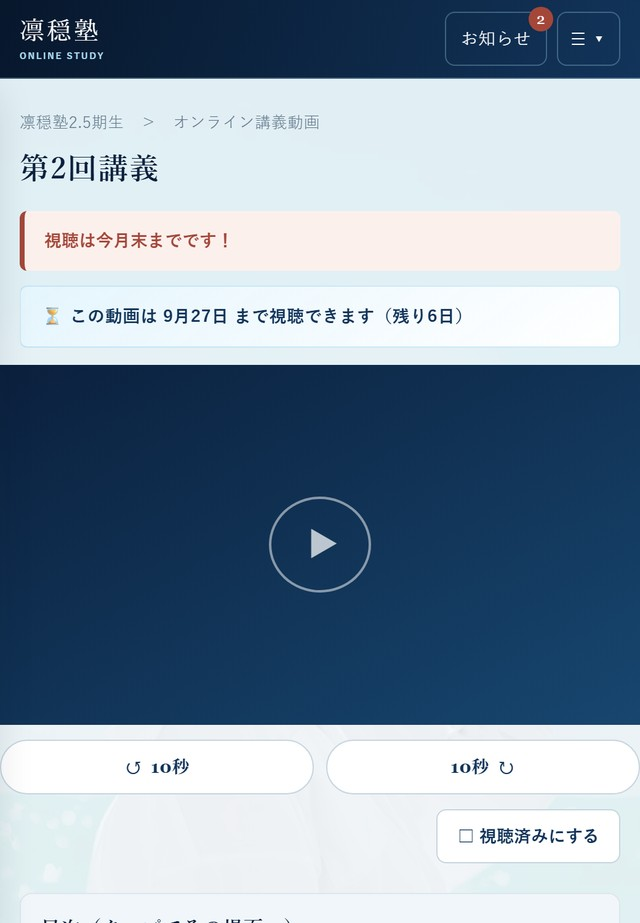
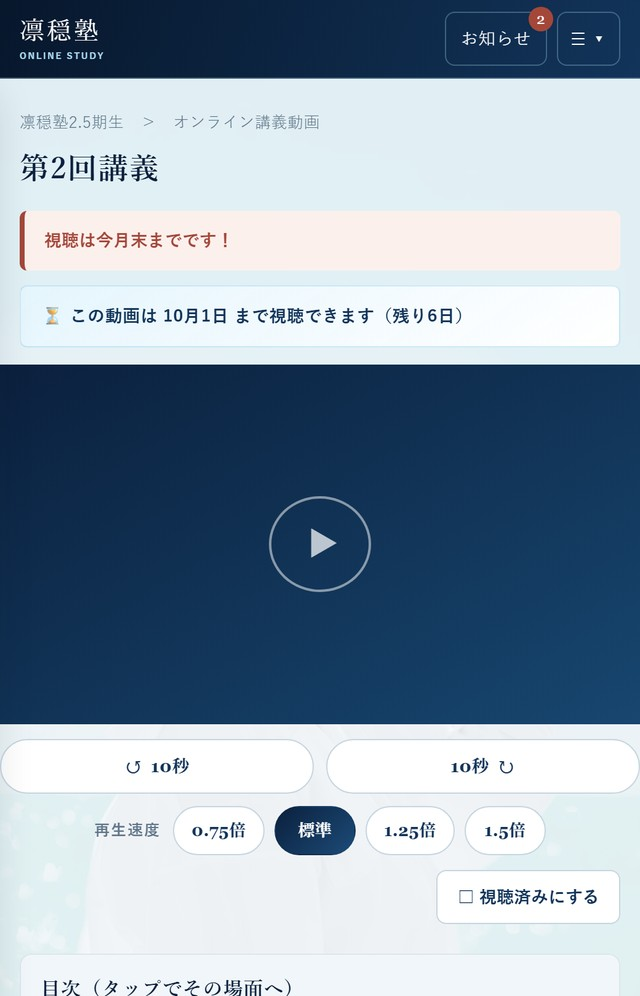
再生速度（0.75／標準／1.25／1.5倍）とスマホ横画面への対応
■ 再生速度
動画の下に4段階の切り替えを追加した。選んだ速度はその端末が覚えて、
次に開く動画にも引き継ぐ。Vimeoが速度変更を断る端末では、黙って失敗させず
「この端末では速度を変えられません」と出し、表示を実際の速度へ戻す。

■ スマホ横画面（高さ500px以下の横向き）
これまでヘッダーとタイトルで1画面を使い切り、動画が画面の外に出ていた。
・ヘッダーを46pxに薄くする（.side / .backdrop の 58px 前提も合わせて調整）
・パンくずを隠し、タイトルと帯を詰める
・動画を order で先頭に出し、16:9を保ったまま画面の高さに収まる幅にする
・左下の「目次」タブに文字が隠れるので、左の余白を58pxあける

■ マニュアル
再生速度の説明を start.html と guide.html に追加。画面写真も撮り直した。
あわせて、ガイドの「視聴済みの記録はお手元の端末に残ります」を修正した。
v1.8.0 でサーバー保存に変えており、実際は機種を変えても引き継がれるため。

キャッシュ番号 ?v=41 → 42。

diff --git a/guide.html b/guide.html
@@ -384,7 +384,7 @@ td code { background: transparent; padding: 0; }
   <div class="a-muted" style="font-size:9px">動画を観ているとき、左下に出ています</div>
   <div class="a-vid" style="margin-top:8px">&#9654;</div>
   <div class="a-drawer">目次</div>
-</div></div></div><p class="shot__cap">スマホでは左下の「目次」から</p></div><h3>期限のしるし</h3><div class="tablewrap"><table><thead><tr><th>しるし</th><th>意味</th></tr></thead><tbody><tr><td><span style="background:#6b3a1e;color:#ffd7a8;border-radius:4px;padding:1px 6px;font-size:12px">あと5日</span></td><td>視聴期限が近づいています。お早めにご覧ください</td></tr><tr><td><span style="background:#23405c;color:#a8cbe6;border-radius:4px;padding:1px 6px;font-size:12px">9/1〜</span></td><td>まだ公開前です。その日になると観られるようになります</td></tr><tr><td>しるしなし</td><td>期限はありません。いつでもご覧いただけます</td></tr></tbody></table></div></section><section class="sec" id="s4"><div class="sec__head"><span class="sec__no">04</span><h2 class="sec__title">動画の観かた</h2></div><p class="sec__lead">長い講義でも、観たい場面からすぐに再生できます。</p><h3>目次から場面へ飛ぶ</h3><p>動画の下に <b>0:13:44</b> のような時刻が並んでいる回があります。これをタップすると、<b>その場面から再生</b>されます。</p><h3>少しだけ戻したいとき</h3><p>動画のすぐ下に <b>「↺ 10秒」「10秒 ↻」</b> のボタンがあります。聞き逃したところを<b>10秒だけ戻す</b>、先に進めたいときは<b>10秒進む</b>、という使い方ができます。何度でも押せます。</p><h3>観終わったら</h3><p>動画の下の <b>「□ 視聴済みにする」</b> を押しておくと、一覧に ✓ が付きます。どこまで観たかが分かりやすくなります（この記録はお手元の端末に残ります）。</p><h3>資料や音声がある回</h3><p>動画の下に、<b>補足の文章・画像の資料・音声</b>が付いている回があります。画像はタップで大きく表示、音声はその場で再生できます。</p><div class="note note--amber"><b>動画が再生されないとき</b>Wi-Fiのつながる場所でお試しください。電波が弱いと、読み込みに時間がかかることがあります。</div></section><section class="sec" id="s5"><div class="sec__head"><span class="sec__no">05</span><h2 class="sec__title">お知らせと通知</h2></div><p class="sec__lead">新しい動画やお知らせを、運営からご連絡します。</p><div class="shot shot--row"><div class="shot"><div class="phone"><div class="phone__scr"><div class="phone__notch"></div><div class="a-hd"><div class="a-brand">凛穏塾<small>ONLINE STUDY</small></div><div class="a-sp"></div><div class="a-chip">お知らせ</div><div class="a-chip">山田 花子 さん ▾</div></div>
+</div></div></div><p class="shot__cap">スマホでは左下の「目次」から</p></div><h3>期限のしるし</h3><div class="tablewrap"><table><thead><tr><th>しるし</th><th>意味</th></tr></thead><tbody><tr><td><span style="background:#6b3a1e;color:#ffd7a8;border-radius:4px;padding:1px 6px;font-size:12px">あと5日</span></td><td>視聴期限が近づいています。お早めにご覧ください</td></tr><tr><td><span style="background:#23405c;color:#a8cbe6;border-radius:4px;padding:1px 6px;font-size:12px">9/1〜</span></td><td>まだ公開前です。その日になると観られるようになります</td></tr><tr><td>しるしなし</td><td>期限はありません。いつでもご覧いただけます</td></tr></tbody></table></div></section><section class="sec" id="s4"><div class="sec__head"><span class="sec__no">04</span><h2 class="sec__title">動画の観かた</h2></div><p class="sec__lead">長い講義でも、観たい場面からすぐに再生できます。</p><h3>目次から場面へ飛ぶ</h3><p>動画の下に <b>0:13:44</b> のような時刻が並んでいる回があります。これをタップすると、<b>その場面から再生</b>されます。</p><h3>少しだけ戻したいとき</h3><p>動画のすぐ下に <b>「↺ 10秒」「10秒 ↻」</b> のボタンがあります。聞き逃したところを<b>10秒だけ戻す</b>、先に進めたいときは<b>10秒進む</b>、という使い方ができます。何度でも押せます。</p><h3>速さを変えたいとき</h3><p>動画の下に <b>「再生速度」</b> が並んでいます。<b>1.25倍・1.5倍</b>で復習を早く済ませたり、聞き取りにくいときは<b>0.75倍</b>でゆっくり再生できます。一度選ぶと、次に開く動画にもそのまま引き継がれます。</p><h3>観終わったら</h3><p>動画の下の <b>「□ 視聴済みにする」</b> を押しておくと、一覧に ✓ が付きます。<b>9割ほどご覧いただくと自動で ✓ が付きます。</b>この記録は凛穏塾側に残りますので、機種を変えても、パソコンで観ても引き継がれます。</p><h3>資料や音声がある回</h3><p>動画の下に、<b>補足の文章・画像の資料・音声</b>が付いている回があります。画像はタップで大きく表示、音声はその場で再生できます。</p><div class="note note--amber"><b>動画が再生されないとき</b>Wi-Fiのつながる場所でお試しください。電波が弱いと、読み込みに時間がかかることがあります。</div></section><section class="sec" id="s5"><div class="sec__head"><span class="sec__no">05</span><h2 class="sec__title">お知らせと通知</h2></div><p class="sec__lead">新しい動画やお知らせを、運営からご連絡します。</p><div class="shot shot--row"><div class="shot"><div class="phone"><div class="phone__scr"><div class="phone__notch"></div><div class="a-hd"><div class="a-brand">凛穏塾<small>ONLINE STUDY</small></div><div class="a-sp"></div><div class="a-chip">お知らせ</div><div class="a-chip">山田 花子 さん ▾</div></div>
 <div class="a-body">
   <div class="a-h1">お知らせ</div>
   <div class="a-card">

diff --git a/css/style.css b/css/style.css
@@ -1346,6 +1346,31 @@ html.student-page.shooting body.has-demo-bar { --student-demo-offset: 0px; }
 .seek-tools button:active { transform: translateY(1px); }
 .seek-tools button[disabled] { opacity: .45; cursor: default; }
 .seek-ic { font-size: 18px; line-height: 1; font-family: var(--sans); }
+
+/* ===== 再生速度 ===== */
+.rate-tools {
+  display: flex; flex-wrap: wrap; justify-content: center; align-items: center;
+  gap: 8px; margin: 10px 0 0;
+}
+.rate-label {
+  font-size: 12.5px; font-weight: 700; color: var(--text-mid);
+  letter-spacing: .08em; margin-right: 2px;
+}
+.rate-tools .rate {
+  min-height: 40px; min-width: 66px; cursor: pointer;
+  background: #fff; border: 1px solid var(--student-border, rgba(18, 52, 90, .16));
+  border-radius: 999px; padding: 8px 14px;
+  font-family: var(--num); font-size: 13.5px; font-weight: 700; letter-spacing: .02em;
+  color: var(--navy-800);
+}
+.rate-tools .rate:hover { border-color: var(--sky-500); }
+.rate-tools .rate:active { transform: translateY(1px); }
+.rate-tools .rate.on {
+  background: linear-gradient(135deg, var(--navy-900), var(--navy-700));
+  border-color: transparent; color: #fff;
+}
+.rate-tools .rate[disabled] { opacity: .45; cursor: default; }
+.rate-msg { flex: 1 0 100%; text-align: center; font-size: 12px; color: var(--text-mid); }
 /* 押したとき、数字がふわっと動いて「効いた」と分かるように */
 .seek-tools button.hit { background: var(--sky-100); border-color: var(--sky-400); }
 @media (max-width: 560px) {
@@ -1353,3 +1378,39 @@ html.student-page.shooting body.has-demo-bar { --student-demo-offset: 0px; }
   .seek-tools button { flex: 1; min-width: 0; }
 }
 @media (prefers-reduced-motion: reduce) { .seek-tools button:active { transform: none; } }
+
+/* ===== スマホの横画面 =====
+   高さが足りず、動画がヘッダーとタイトルに押し出されて画面の外に出てしまう。
+   ・上まわりを詰める
+   ・動画を先頭に並べ替えて（order）、開いた瞬間に見えるようにする
+   ・画面の高さに収まるよう、動画の横幅のほうを縮める（16:9を保つ）
+   高さ500px以下の横向き＝スマホ横画面。タブレットやPCには当たらない。 */
+@media (orientation: landscape) and (max-height: 500px) {
+  /* ヘッダーを薄くする。.side / .backdrop は 58px を前提に置いているので、そこも合わせる */
+  .student-page .hd, .hd { min-height: 46px; padding: 6px 14px; }
+  .student-page .hd .brand, .hd .brand { font-size: 17px; letter-spacing: .1em; }
+  .student-page .hd .brand small, .hd .brand small { font-size: 6.5px; margin-top: 2px; }
+  .student-page .hd button, .hd button { min-height: 34px; padding: 6px 12px; font-size: 12.5px; }
+  .side { top: 46px; }
+  .backdrop { inset: 46px 0 0; }
+  .main { min-height: calc(100dvh - 46px); }
+
+  /* 左下の「目次」タブに文字が隠れるので、左だけ広くあける */
+  .student-page .watch, .watch { padding: 10px 16px 40px 58px; display: flex; flex-direction: column; }
+  .student-page .body, .body { padding-left: 58px; }
+  .crumb { display: none; }
+  .student-page .watch h1, .watch h1 { font-size: 17px; margin: 0 0 8px; }
+  .hint-bar, .limit-bar { padding: 7px 12px; font-size: 12px; margin-bottom: 8px; }
+
+  /* 動画を先頭へ。画面の高さに収まるよう、16:9を保ったまま横幅のほうを縮める */
+  .frame { order: -1; width: 100%; max-width: calc((100dvh - 130px) * 16 / 9);
+    margin: 0 auto 10px; align-self: center; }
+
+  .seek-tools, .rate-tools { margin-top: 8px; }
+  .watch-tools { margin: 10px 0 12px; }
+
+  /* コース選択・一覧側も、見出しで1画面を使い切らないように詰める */
+  .student-page .body, .body { padding-top: 14px; }
+  .student-page .body h1, .body h1 { font-size: 19px; margin-bottom: 6px; }
+  .student-page .body .lead, .body .lead { margin-bottom: 12px; }
+}

diff --git a/js/app.js b/js/app.js
@@ -19,6 +19,7 @@
     watched: {}      // 観た動画のID（サーバーの「視聴状況」と同じ中身）
   };
   var WATCH_KEY = 'rj_watched', READ_KEY = 'rj_news_read', LIKE_KEY = 'rj_news_liked', ORDER_KEY = 'rj_order';
+  var RATE_KEY = 'rj_rate';        // 再生速度（この端末だけが覚える）
   var uid = RJ.pickUid();
 
   var $ = function (id) { return document.getElementById(id); };
@@ -1040,6 +1041,8 @@
       try { state.player = new Vimeo.Player(frame); } catch (e) { state.player = null; }
     }
     paintSeekTools(!!state.player);
+    paintRateTools(!!state.player);
+    applyRate();
     // ※Vimeo側が「埋め込み限定」設定のため、vimeo.comで開くリンクは置いていない
 
     // 目次・補足
@@ -1127,6 +1130,66 @@
 
   if ($('back10')) $('back10').addEventListener('click', function () { seekBy(-10); });
   if ($('fwd10')) $('fwd10').addEventListener('click', function () { seekBy(10); });
+
+  /* ---------- 再生速度 ----------
+   * ・0.75 / 1 / 1.25 / 1.5 の4段階。選んだ速度はこの端末が覚えて、次の動画にも引き継ぐ
+   * ・Vimeoは端末や動画の設定によって速度変更を断ることがある。
+   *   そのときは黙って失敗させず、「変えられません」と出して表示を実際の速度に戻す
+   */
+  var RATES = [0.75, 1, 1.25, 1.5];
+  function rate() {
+    var v;
+    try { v = Number(localStorage.getItem(RATE_KEY)); } catch (e) { v = 0; }
+    return RATES.indexOf(v) >= 0 ? v : 1;
+  }
+  function setRate(v) { try { localStorage.setItem(RATE_KEY, String(v)); } catch (e) {} }
+
+  function paintRateTools(canPlay) {
+    var box = $('rateTools');
+    if (!box) return;
+    box.classList.toggle('hidden', !canPlay);
+    var now = rate();
+    Array.prototype.forEach.call(box.querySelectorAll('.rate'), function (b) {
+      b.classList.toggle('on', Number(b.dataset.rate) === now);
+      b.disabled = !canPlay;
+    });
+    if (canPlay) rateMsg(false);
+  }
+  function rateMsg(show) {
+    var m = $('rateMsg'); if (m) m.classList.toggle('hidden', !show);
+  }
+
+  /** いまのプレーヤーに、覚えている速度をあてる（動画を開くたびに呼ぶ） */
+  function applyRate() {
+    var p = state.player;
+    if (!p || !p.setPlaybackRate) return;
+    var want = rate();
+    p.ready()
+      .then(function () { return p.setPlaybackRate(want); })
+      .then(function () { rateMsg(false); })
+      .catch(function () {
+        // 変えられない端末。表示を実際の速度に戻して、理由を出す
+        rateMsg(true);
+        if (p.getPlaybackRate) {
+          p.getPlaybackRate().then(function (r) {
+            var box = $('rateTools'); if (!box) return;
+            Array.prototype.forEach.call(box.querySelectorAll('.rate'), function (b) {
+              b.classList.toggle('on', Number(b.dataset.rate) === Number(r));
+            });
+          }).catch(function () {});
+        }
+      });
+  }
+
+  if ($('rateTools')) {
+    $('rateTools').addEventListener('click', function (e) {
+      var b = e.target.closest ? e.target.closest('.rate') : null;
+      if (!b || b.disabled) return;
+      setRate(Number(b.dataset.rate));
+      paintRateTools(true);
+      applyRate();
+    });
+  }
 
   /**
    * 9割まで再生されたら、自動で「視聴済み」にする。

diff --git a/index.html b/index.html
@@ -11,19 +11,19 @@
 <meta name="apple-mobile-web-app-status-bar-style" content="black-translucent">
 <meta name="apple-mobile-web-app-title" content="凛穏塾">
 <meta name="theme-color" content="#07172c">
-<link rel="apple-touch-icon" href="icon-192.png?v=41">
-<link rel="icon" type="image/png" sizes="32x32" href="favicon-32.png?v=41">
-<link rel="icon" type="image/png" sizes="64x64" href="favicon-64.png?v=41">
-<link rel="icon" href="icon-192.png?v=41">
+<link rel="apple-touch-icon" href="icon-192.png?v=42">
+<link rel="icon" type="image/png" sizes="32x32" href="favicon-32.png?v=42">
+<link rel="icon" type="image/png" sizes="64x64" href="favicon-64.png?v=42">
+<link rel="icon" href="icon-192.png?v=42">
 <title>凛穏塾｜受講生専用 動画ページ</title>
-<link rel="stylesheet" href="css/style.css?v=41">
+<link rel="stylesheet" href="css/style.css?v=42">
 </head>
 <body>
 
 <!-- ===== 起動画面（白い光にロゴが浮かぶ・1.5秒で消える） ===== -->
 <div id="splash" class="splash">
   <div class="splash__glow"></div>
-  <img class="splash__logo" src="assets/logo-app.png?v=41" alt="凛穏塾" width="480" height="480">
+  <img class="splash__logo" src="assets/logo-app.png?v=42" alt="凛穏塾" width="480" height="480">
 </div>
 <script>
 (function () {
@@ -130,6 +130,14 @@
           <button id="fwd10" type="button" aria-label="10秒すすむ">
             10秒<span class="seek-ic">↻</span></button>
         </div>
+        <div class="rate-tools hidden" id="rateTools">
+          <span class="rate-label">再生速度</span>
+          <button class="rate" data-rate="0.75" type="button">0.75倍</button>
+          <button class="rate" data-rate="1" type="button">標準</button>
+          <button class="rate" data-rate="1.25" type="button">1.25倍</button>
+          <button class="rate" data-rate="1.5" type="button">1.5倍</button>
+          <span class="rate-msg hidden" id="rateMsg">この端末では速度を変えられません</span>
+        </div>
         <div class="watch-tools">
           <button id="doneBtn" type="button">□ 視聴済みにする</button>
         </div>
@@ -172,9 +180,9 @@
 </div>
 
 <script src="https://player.vimeo.com/api/player.js"></script>
-<script src="js/config.js?v=41"></script>
-<script src="js/common.js?v=41"></script>
-<script src="js/mock.js?v=41"></script>
-<script src="js/app.js?v=41"></script>
+<script src="js/config.js?v=42"></script>
+<script src="js/common.js?v=42"></script>
+<script src="js/mock.js?v=42"></script>
+<script src="js/app.js?v=42"></script>
 </body>
 </html>

diff --git a/admin.html b/admin.html
@@ -5,11 +5,11 @@
 <meta name="viewport" content="width=device-width, initial-scale=1">
 <meta name="robots" content="noindex, nofollow">
 <title>凛穏塾｜運営ページ</title>
-<link rel="icon" type="image/png" sizes="32x32" href="favicon-32.png?v=41">
-<link rel="icon" type="image/png" sizes="64x64" href="favicon-64.png?v=41">
-<link rel="apple-touch-icon" href="icon-192.png?v=41">
+<link rel="icon" type="image/png" sizes="32x32" href="favicon-32.png?v=42">
+<link rel="icon" type="image/png" sizes="64x64" href="favicon-64.png?v=42">
+<link rel="apple-touch-icon" href="icon-192.png?v=42">
 <meta name="theme-color" content="#07172c">
-<link rel="stylesheet" href="css/style.css?v=41">
+<link rel="stylesheet" href="css/style.css?v=42">
 </head>
 <body>
 
@@ -96,9 +96,9 @@
   </section>
 </div>
 
-<script src="js/config.js?v=41"></script>
-<script src="js/common.js?v=41"></script>
-<script src="js/mock.js?v=41"></script>
-<script src="js/admin.js?v=41"></script>
+<script src="js/config.js?v=42"></script>
+<script src="js/common.js?v=42"></script>
+<script src="js/mock.js?v=42"></script>
+<script src="js/admin.js?v=42"></script>
 </body>
 </html>

diff --git a/start.html b/start.html
@@ -441,6 +441,7 @@ td code { background: transparent; padding: 0; }
   <div class="shot"><div class="phone phone--img"><div class="phone__scr"><img class="phone__img" src="assets/shots/watch.jpg" alt="" loading="lazy"></div></div><p class="shot__cap">動画の画面</p></div>
   <ul class="pts">
     <li><b>10秒もどす／10秒すすむ</b> … 聞きのがしたところへ、すぐ戻れます</li>
+    <li><b>再生速度</b> … 0.75倍でゆっくり、1.25倍・1.5倍で早く。一度選ぶと次の動画にも引き継がれます</li>
     <li><b>視聴済みにする</b> … 押すとチェックが付きます。
       9割ほどご覧いただくと<b>自動でチェック</b>が付きます</li>
     <li><b>残りの日数</b> … 視聴できる期間がある動画は、上に表示されます</li>

diff --git a/manual/page_guide.py b/manual/page_guide.py
@@ -215,9 +215,14 @@ S4 = (
     + '<p>動画のすぐ下に <b>「↺ 10秒」「10秒 ↻」</b> のボタンがあります。'
     '聞き逃したところを<b>10秒だけ戻す</b>、先に進めたいときは<b>10秒進む</b>、という使い方ができます。'
     '何度でも押せます。</p>'
+    + '<h3>速さを変えたいとき</h3>'
+    + '<p>動画の下に <b>「再生速度」</b> が並んでいます。'
+    '<b>1.25倍・1.5倍</b>で復習を早く済ませたり、聞き取りにくいときは<b>0.75倍</b>でゆっくり再生できます。'
+    '一度選ぶと、次に開く動画にもそのまま引き継がれます。</p>'
     + '<h3>観終わったら</h3>'
     + '<p>動画の下の <b>「□ 視聴済みにする」</b> を押しておくと、一覧に ✓ が付きます。'
-    'どこまで観たかが分かりやすくなります（この記録はお手元の端末に残ります）。</p>'
+    '<b>9割ほどご覧いただくと自動で ✓ が付きます。</b>'
+    'この記録は凛穏塾側に残りますので、機種を変えても、パソコンで観ても引き継がれます。</p>'
     + '<h3>資料や音声がある回</h3>'
     + '<p>動画の下に、<b>補足の文章・画像の資料・音声</b>が付いている回があります。'
     '画像はタップで大きく表示、音声はその場で再生できます。</p>'

diff --git a/manual/page_start.py b/manual/page_start.py
@@ -143,6 +143,7 @@ BODY = """
   %s
   <ul class="pts">
     <li><b>10秒もどす／10秒すすむ</b> … 聞きのがしたところへ、すぐ戻れます</li>
+    <li><b>再生速度</b> … 0.75倍でゆっくり、1.25倍・1.5倍で早く。一度選ぶと次の動画にも引き継がれます</li>
     <li><b>視聴済みにする</b> … 押すとチェックが付きます。
       9割ほどご覧いただくと<b>自動でチェック</b>が付きます</li>
     <li><b>残りの日数</b> … 視聴できる期間がある動画は、上に表示されます</li>

diff --git a/manual/shoot.py b/manual/shoot.py
@@ -39,7 +39,7 @@ SHOTS = [
     ("firstpass", "firstpass", 380, 1720),
     ("picker",    "picker",    0,   1040),
     ("menu",      "menu",      0,   1060),
-    ("watch",     "watch",     0,   1500),
+    ("watch",     "watch",     0,   1620),
 ]
 
 
